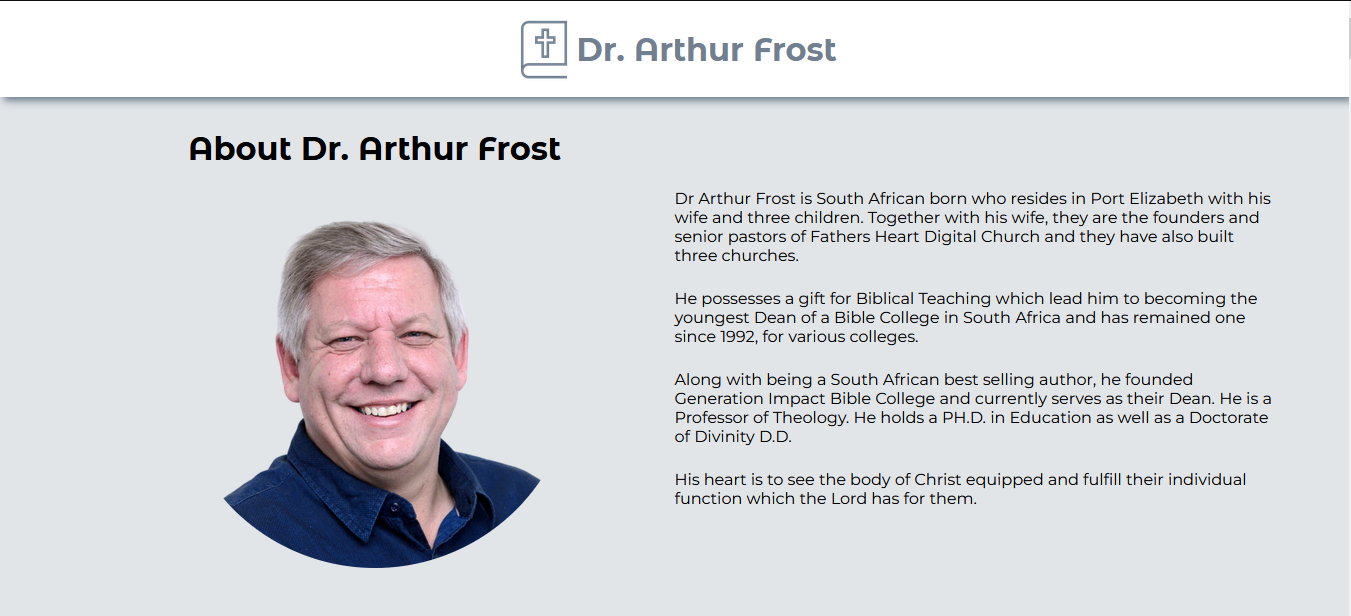
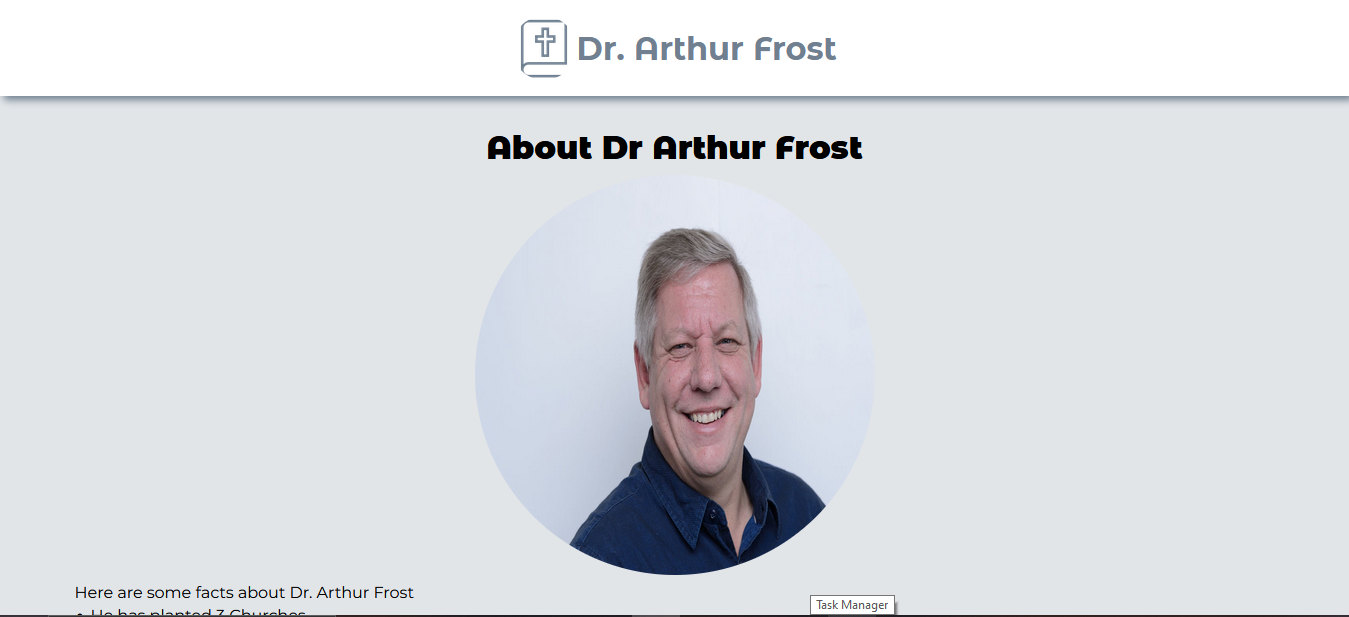
used body from the json

diff --git a/src/components/About/About.tsx b/src/components/About/About.tsx
@@ -1,40 +1,21 @@
 import React from 'react';
 import './About.scss';
 
-export const About: React.FC = React.memo(
-  () => {
+interface Props {
+  body: Body | null;
+}
+
+export const About: React.FC<Props> = React.memo(
+  ({ body }) => {
+
     return (
-      <div className='about'>
-        <div className="about__wrapper">
-          <div className="about__left">
-            <h2 className='about__title'>About Dr. Arthur Frost</h2>
+      <>
+        {body && (
+          <div className="about" dangerouslySetInnerHTML={{ __html: body.About }}>
 
-            <img
-              src={`${process.env.PUBLIC_URL}/Dr-Arthur-PNG.png`}
-              alt="Dr Arthur Frost"
-              className='about__image'
-            />
           </div>
-
-          <div className="about__right">
-            <p>
-              Dr Arthur Frost is South African born who resides in Port Elizabeth with his wife and three children. Together with his wife, they are the founders and senior pastors of Fathers Heart Digital Church and they have also built three churches.
-            </p>
-
-            <p>
-              He possesses a gift for Biblical Teaching which lead him to becoming the youngest Dean of a Bible College in South Africa and has remained one since 1992, for various colleges.
-            </p>
-
-            <p>
-              Along with being a South African best selling author, he founded Generation Impact Bible College and currently serves as their Dean. He is a Professor of Theology. He holds a PH.D. in Education as well as a Doctorate of Divinity D.D.
-            </p>
-
-            <p>
-              His heart is to see the body of Christ equipped and fulfill their individual function which the Lord has for them.
-            </p>
-          </div>
-        </div>
-      </div>
+        )}
+      </>
     )
   }
 )

diff --git a/src/components/About/About.scss b/src/components/About/About.scss
@@ -3,74 +3,43 @@
 .about {
   padding: 32px 0 48px;
 
-  &__wrapper {
-    @include limitContentWidth;
+  @include limitContentWidth;
 
-    display: flex;
-    justify-content: space-between;
-
-    @include tablet {
-      padding: 32px 48px 48px;
-    }
-
-    @include mobile {
-      flex-direction: column;
-      gap: 32px;
-    }
+  @include tablet {
+    padding: 32px 48px 48px;
   }
 
-  &__left {
-    width: 50%;
-
-    display: flex;
+  @include mobile {
     flex-direction: column;
-    justify-content: space-between;
-    align-items: center;
+    gap: 32px;
+  }
 
-    @include mobile {
-      width: 100%;
+  & p {
+    &:first-of-type {
+      padding: 8px 0;
+      display: flex;
+      justify-content: center;
     }
   }
 
-  &__title {
+  & h1 {
     font-size: 2rem;
     font-family: 'Montserrat Alternates', sans-serif;
     text-align: center;
-
+  
     @include mobile {
       font-size: 1.5rem;
-
-
     }
   }
-
-  &__image {
+  
+  & img {
     width: 400px;
     height: 400px;
     border-radius: 50%;
-
+  
     @include mobile {
       width: 250px;
       height: 250px;
     }
-  }
-
-  &__right {
-    width: 50%;
-
-    display: flex;
-    flex-direction: column;
-    justify-content: center;
-    gap: 24px;
-
-    @include mobile {
-      width: 100%;
-
-      font-size: 0.9rem;
-    }
-  }
-
-  &__list {
-    list-style: none;
   }
 }

diff --git a/src/App.tsx b/src/App.tsx
@@ -8,6 +8,7 @@ import { About } from './components/About';
 
 const App: React.FC = () => {
   const [timelineList, setTimelineList] = useState<TimelineItem[] | []>([]);
+  const [body, setBody] = useState<Body | null>(null)
   const [loading, setLoading] = useState(true);
   const [itemOffset, setItemOffset] = useState(0);
   const [categories, setCategories] = useState<string[]>([]);
@@ -25,6 +26,7 @@ const App: React.FC = () => {
     xhr.onreadystatechange = function () {
       if (this.readyState === 4 && this.status === 200) {
         setTimelineList(JSON.parse(this.responseText).Timeline);
+        setBody(JSON.parse(this.responseText).Body[0]);
         setLoading(false);
       }
     }
@@ -80,7 +82,7 @@ const App: React.FC = () => {
           <h1 className="app__title">Dr. Arthur Frost</h1>
         </div>
 
-        <About />
+        {loading ? (<Loader />) : (<About body={body} />)}
 
         <h2 className="app__heading">Dr Arthur's Timeline</h2>
 

diff --git a/src/react-app-env.d.ts b/src/react-app-env.d.ts
@@ -19,3 +19,19 @@ interface TimelineItem {
   "Epoch": number;
   "AudioSize": number;
 }
+
+interface Body {
+  Id: number;
+  Background: string;
+  BackgroundOpacity: number;
+  About: string;
+  JS: string;
+  CSS: null;
+  Status: number;
+  createDate: {
+    date: string;
+    timezone_type: number;
+    timezone: string;
+  };
+  Epoch: number;
+}
